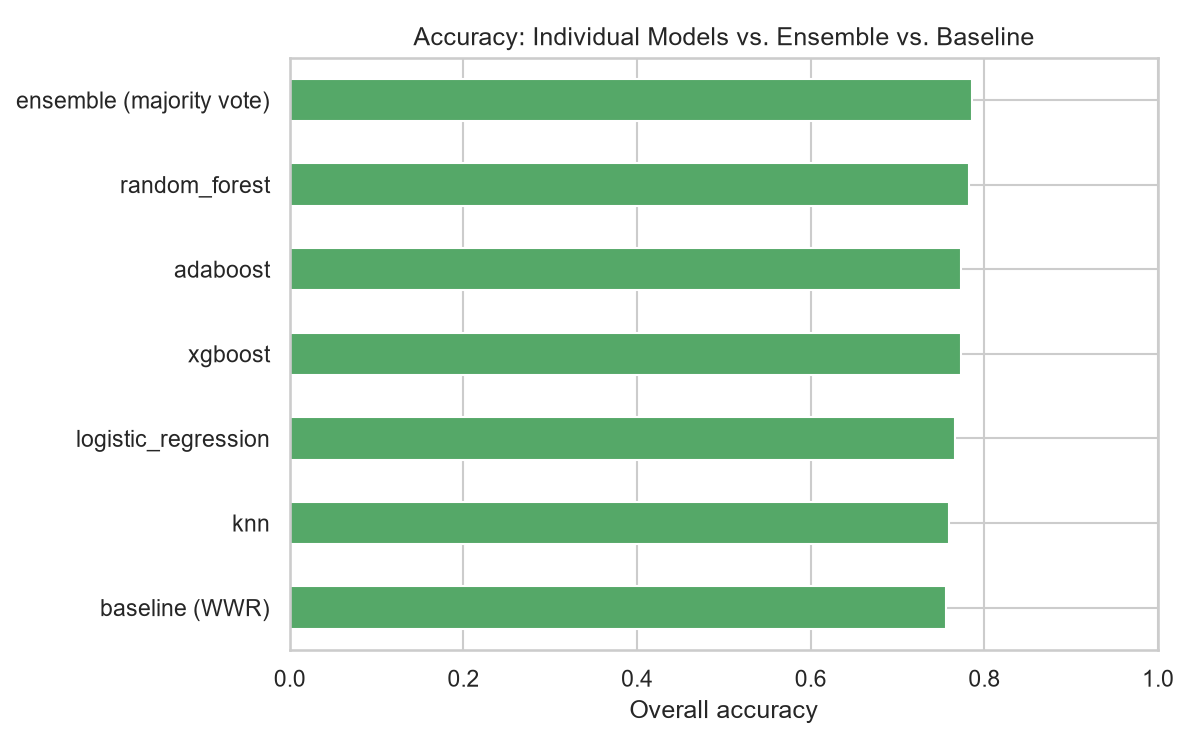
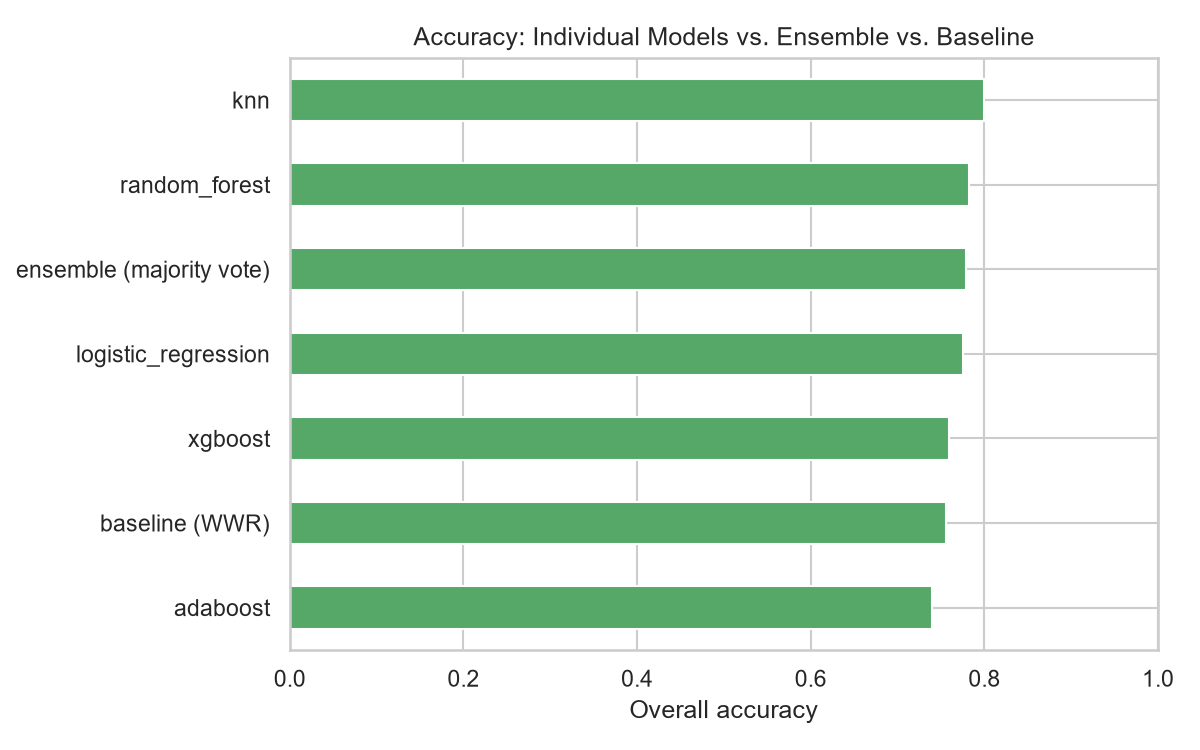
Update README and figures for the squad-aggregation results
78.6% +/- 1.8% against the baseline's 74.8%, ahead on all 5 seeds by
between 1.0 and 7.4 points; 163 features; McNemar now significant on 2 of
5 seeds. Figures regenerated.

The "How it got there" section gains the Brazil-Norway worked example,
including that the change is worth only +0.1 pp of accuracy on its own --
recorded as the marginal result it is, alongside the goalkeeper-selection
bug it uncovered, which mattered more than the accuracy did.

diff --git a/README.md b/README.md
@@ -160,8 +160,9 @@ safe to re-run.
 - [x] Repo scaffolding
 - [x] Data collection (real Kaggle datasets connected: player attributes 2015–2025 — FIFA 15–23,
   EA FC 24 from the same author, EA FC 25 mapped via `src/data/adapters.py` — match history 1872–present)
-- [x] Feature engineering (1749 team-year profiles, 130 raw features -> ~30 PCA components at 95% variance, depending on the split):
-  111 squad-attribute columns, 18 as-of-date match-history columns (`src/features/history_features.py`), and a neutral-venue flag
+- [x] Feature engineering (1749 team-year profiles, 163 raw features -> ~35 PCA components at 95% variance, depending on the split):
+  144 squad columns (means, star-concentration shape, and per-position aggregates), 18 as-of-date match-history columns
+  (`src/features/history_features.py`), and a neutral-venue flag
 - [x] Baseline (WWR) — fit on full World Cup history (finals + qualifiers), test-leakage safe
 - [x] Ensemble models — 5-model majority vote, trained end-to-end on real data (1495 usable matches)
 - [x] Evaluation — accuracy, high/low-scoring split, challenging cases, validated across 5 random seeds
@@ -171,8 +172,8 @@ safe to re-run.
 - [x] Web app (Phase 8) — FastAPI backend (`api/`) + React frontend (`frontend/`): live team-vs-team prediction and an interactive results dashboard
 
 **Latest results** (1495 World Cup matches incl. qualifiers, 5-seed average): ensemble
-**78.5% ± 2.0%** overall accuracy vs. baseline 74.8% ± 2.8% — see `outputs/figures/`.
-The ensemble finishes ahead on all 5 seeds, by between 1.7 and 6.7 points.
+**78.6% ± 1.8%** overall accuracy vs. baseline 74.8% ± 2.8% — see `outputs/figures/`.
+The ensemble finishes ahead on all 5 seeds, by between 1.0 and 7.4 points.
 Run `python -m src.pipeline` to reproduce, or `python -m src.make_figures` to
 regenerate the figures.
 
@@ -192,7 +193,8 @@ Three changes, each measured on its own across all 5 seeds:
 | Starting point | 75.5% ± 2.5% | +0.7 pp | 2 / 5 |
 | \+ `neutral_site` feature | 76.3% ± 2.3% | +1.5 pp | 3 / 5 |
 | \+ as-of-date history features | 78.1% ± 3.0% | +3.3 pp | 4 / 5 |
-| \+ neutral-only row mirroring | **78.5% ± 2.0%** | **+3.7 pp** | **5 / 5** |
+| \+ neutral-only row mirroring | 78.5% ± 2.0% | +3.7 pp | 5 / 5 |
+| \+ squad shape & position aggregation | **78.6% ± 1.8%** | **+3.8 pp** | **5 / 5** |
 
 - **History features** (`src/features/history_features.py`) give the model Elo, the baseline's
   own weighted win ratio, matches played, head-to-head record and recent form. Every value is
@@ -209,8 +211,19 @@ Three changes, each measured on its own across all 5 seeds:
   asserting that the away side of a qualifier had home advantage is simply false. Restricted to
   rows where the ordering really is arbitrary it adds 0.4 points and cuts seed-to-seed spread
   from 3.0 to 2.0 — which is what turns "ahead on 4 of 5 seeds" into "ahead on all 5".
+- **Squad shape and position aggregation** came out of a single bad prediction: Brazil 78% over
+  a Norway side that won 2-1. The squad *mean* was the one statistic making it look lopsided —
+  Brazil 84.4 to Norway's 76.6 — while by top-3 the gap was 1.7 and by best player Norway was
+  ahead (Haaland 91 to 90). The mean measures depth, which wins leagues; a knockout tie is
+  often decided by the best two or three on the pitch. Profiles now also carry `overall_max`,
+  `overall_top3`, `overall_spread` and per-position aggregates. This also surfaced a real bug:
+  the proxy squad for unlicensed federations was "top 23 by `overall`", and since EA rates
+  keepers below outfielders, **58% of those squads contained no goalkeeper** (Algeria 2017's
+  best keeper ranks 32nd in his own nation). Selection now fills a positional quota. Net effect
+  on accuracy is only +0.1 pp — inside the noise — but AUC, seed spread and significance all
+  improve, and Brazil–Norway drops from 78% to 72%.
 
-Per-seed McNemar is still mostly not significant (1 of 5 seeds at p<0.05, p ranging 0.005–0.52,
+Per-seed McNemar reaches p<0.05 on 2 of the 5 seeds (p ranging 0.005–0.52,
 n=299 per test set). What changed is that the margin is positive on every seed rather than two.
 
 ### Held-out test: the 2026 World Cup knockout bracket
@@ -233,7 +246,7 @@ python -m src.backtest_wc2026
 | Semi-finals | 2 | 0% | 50% |
 | **Overall** | **30** | **76.7%** | **66.7%** |
 
-76.7% out of sample sits within the cross-validated 78.5% ± 2.0%, which is the main evidence
+76.7% out of sample sits within the cross-validated 78.6% ± 1.8%, which is the main evidence
 that the model generalises rather than fitting its own test splits. Two caveats keep it honest:
 with n=30 the 95% interval is ±15.1%, so the 10-point margin over the baseline is **not**
 statistically significant; and 4 of the 30 ties were decided on penalties, which the model has
@@ -249,14 +262,14 @@ World Cup final between those two.
 **Beyond overall accuracy**, `python -m src.pipeline` also reports (console + `report.attrs`):
 - Per-model accuracy for each of the 5 base classifiers, before the majority vote
 - Precision / recall / F1 / ROC-AUC (accuracy alone hides the home-win class imbalance)
-- McNemar's test on paired baseline-vs-ensemble predictions — the ~3.7-point accuracy
-  margin reaches p<0.05 on only 1 of the 5 seeds (per-seed p-values range from 0.005 to
+- McNemar's test on paired baseline-vs-ensemble predictions — the ~3.8-point accuracy
+  margin reaches p<0.05 on 2 of the 5 seeds (per-seed p-values range from 0.005 to
   0.52; honest finding, not swept under the rug — see the report's Discussion section).
   With ~299 test rows per seed the test is underpowered for a gap this size; the stronger
   evidence is that the margin is positive on all 5 seeds
 - Ensemble accuracy broken down by vote agreement (3/5, 4/5, 5/5 of the base models agreeing)
 - Feature importance (Random Forest + XGBoost, mapped back from PCA-component space to
-  the original 130 engineered features) — an approximation, since PCA components have no
+  the original 163 engineered features) — an approximation, since PCA components have no
   direct real-world meaning
 
 ## Reference
